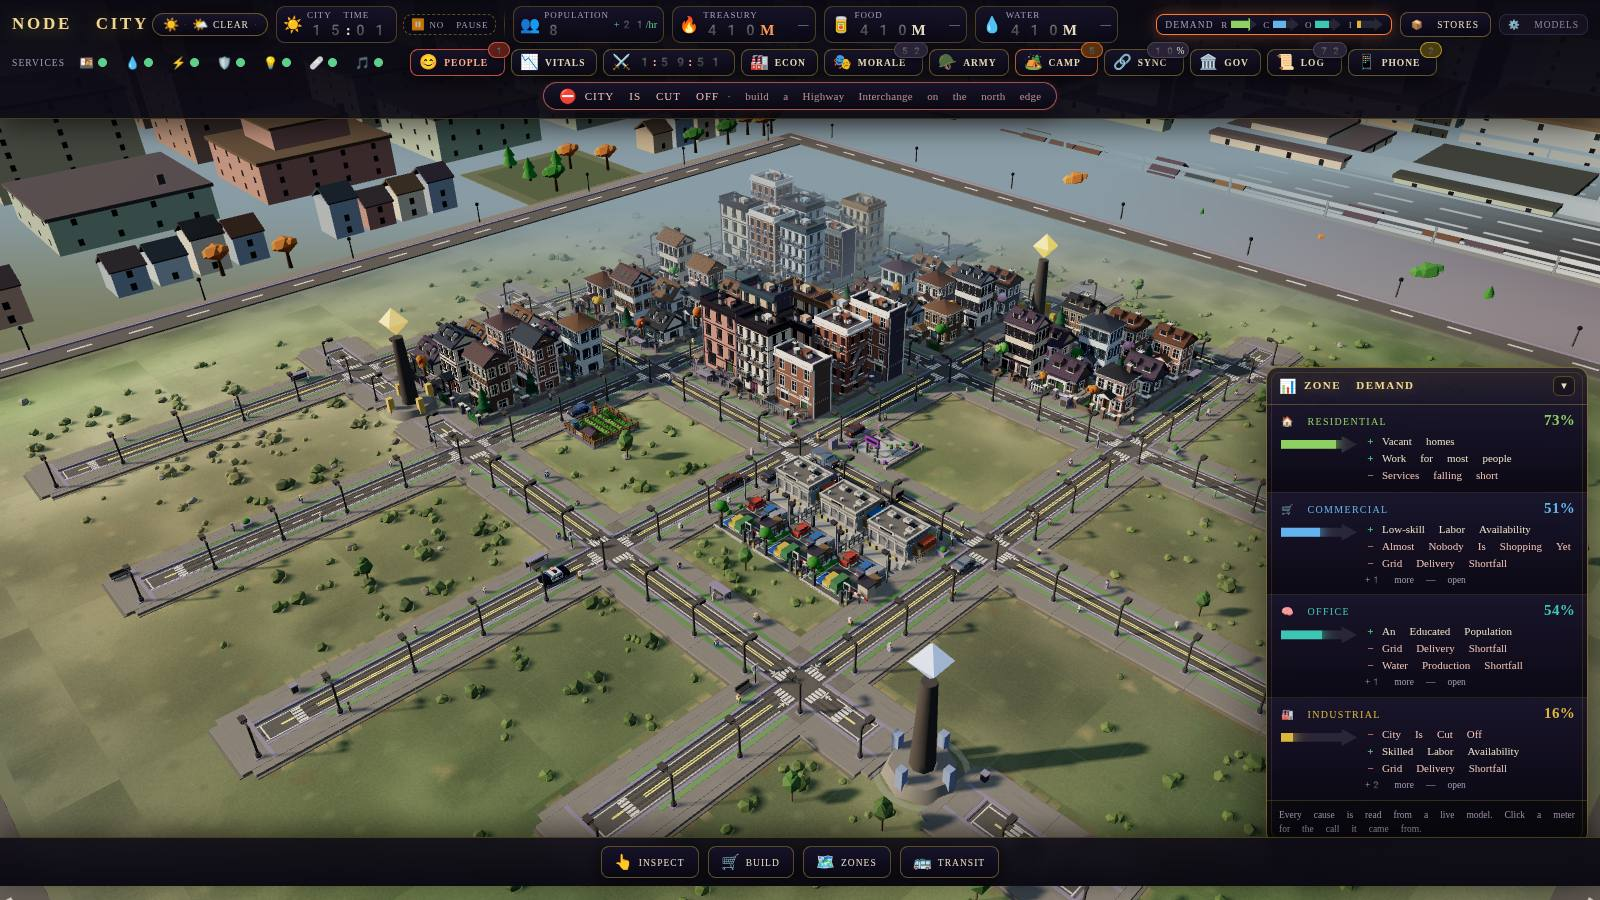
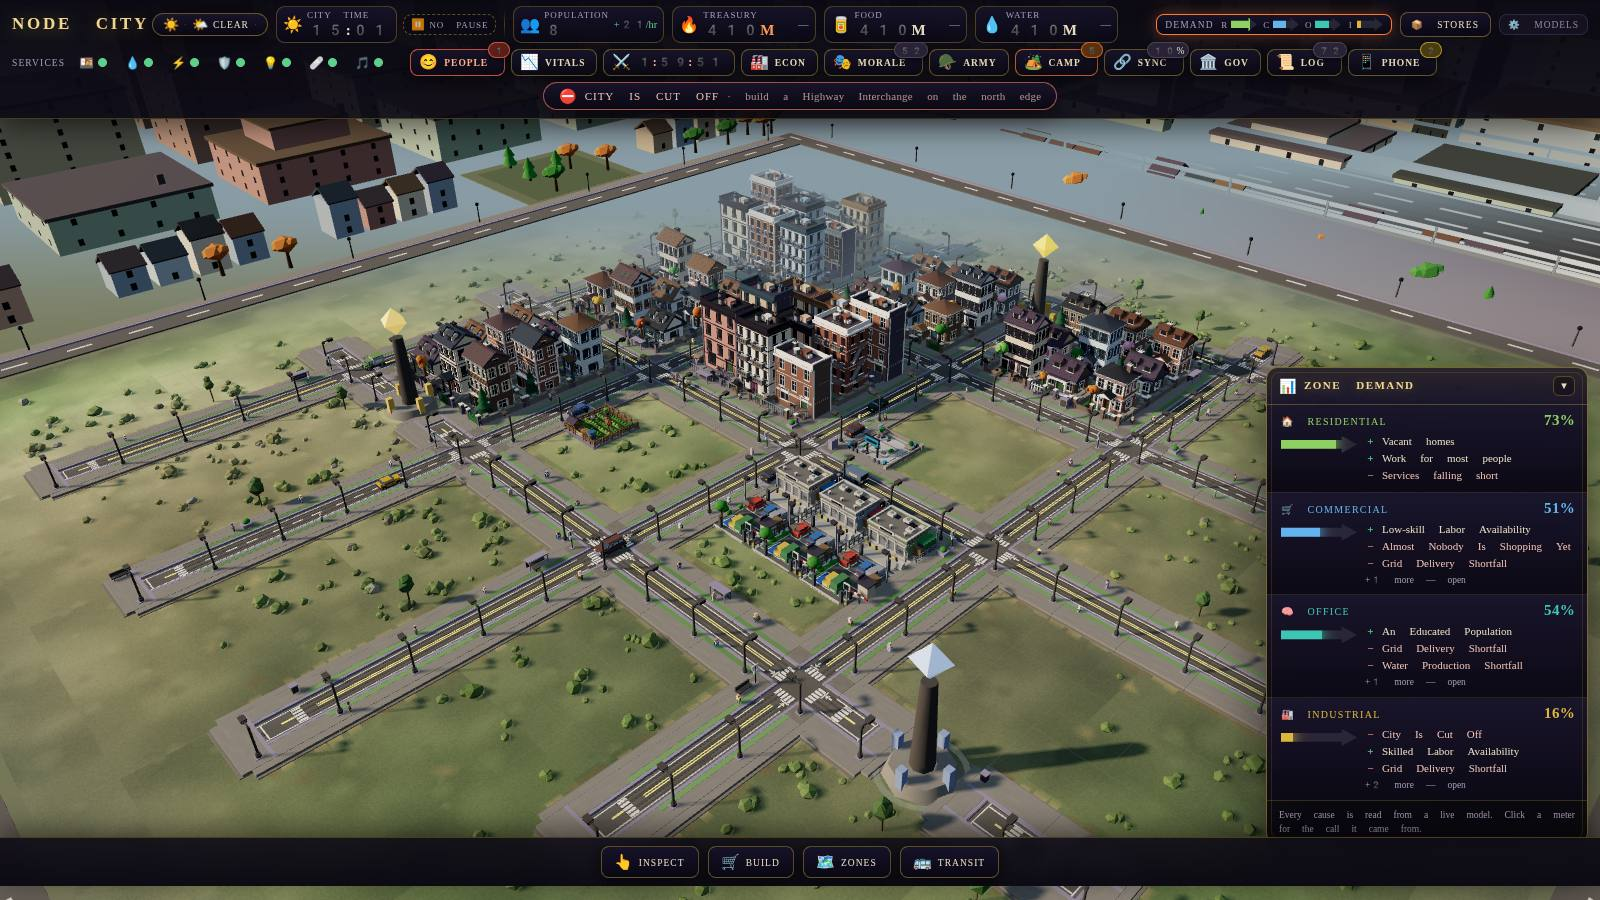
Checkpoint: districts gate fix mid-write
⚠ MIXED CHECKPOINT, IN FLIGHT. An agent is still writing
public/src/districts/{index,ui}.js — the fix for the save path that bypasses the
research gate (a locked specialisation arriving in a save changes what develops,
and grants 40 of the tree's 74 development points through progression's adoption
sweep). Nothing here is finished or reviewed.

Also carries a re-rendered aerial frame from the ground-plane capture.

Both gates pass (ALL CLEAN, ALL 169 MODULES PARSE), which means nothing fails to
parse and nothing more.

diff --git a/public/src/districts/ui.js b/public/src/districts/ui.js
@@ -27,6 +27,19 @@
       single line under the chips: what it builds, the lowest band that will
       take it, and how many tiles already carry it. Everything on that line is
       derived live (index.js `available()`); nothing is written twice.
+   5. 🔬 A CHIP THAT CHANGES NOTHING ON *THIS* ZONE SAYS SO ON ITS FACE. Rows
+      arrive carrying `inert` and `differs`, computed in index.js from the live
+      zone table and the live band ladder, and a placebo pairing is drawn dashed
+      with "· no change here" on the chip itself — not only in the tooltip,
+      because a qualification you have to hover to find is not a qualification.
+      ⚠ IT IS STILL ARMABLE, AND THAT IS THE DECISION RATHER THAN AN OVERSIGHT.
+        Hiding it was the alternative and it loses twice: the chip would appear
+        and vanish as the player switched density within one family (🔬
+        Technology is a placebo on 🧠 Office park and a real district on 📈
+        Office towers), which reads as a bug; and a player who paints a block
+        low-density now and upgrades the zone later would silently lose the
+        district they painted. Marked and paintable keeps both the information
+        and the plan.
 
    ⚠ AND THE THING THAT IS DELIBERATELY *NOT* DRAWN: the chips do not carry
      per-specialisation colours. The overlay's hues are the LAND USE families
@@ -69,6 +82,11 @@ function style() {
 #nz-spec .ndc.myth.on{border-color:#ffd98a;background:rgba(212,175,55,.22)}
 #nz-spec .ndc.lock{opacity:.55}
 #nz-spec .ndc.dead{opacity:.4;cursor:not-allowed;text-decoration:line-through}
+/* 🔬 A chip that changes nothing on the zone currently on the brush. Dashed
+   rather than dimmed, and NOT struck through: it is a real district on another
+   zone of the same family, so it must not read as broken. */
+#nz-spec .ndc.inert{border-style:dashed;border-color:rgba(255,255,255,.18)}
+#nz-spec .ndc.inert .ndno{opacity:.6;font-style:italic}
 #nz-spec .nddiv{width:1px;align-self:stretch;background:rgba(212,175,55,.35);margin:0 2px}
 #nz-spec .nddet{margin-top:4px;color:var(--mist,#8f87a3);font-size:11px;line-height:1.35}
 #nz-spec .nddet b{color:var(--bone,#e9e0cc)}
@@ -86,7 +104,10 @@ export function renderInto(el, zoneId, zoneDef) {
   const fam = cat && API.FAMILIES[cat];
   if (!fam) { el.innerHTML = ''; return false; }        // residential, or nothing selected
 
-  const rows = API.available(cat);
+  /* zoneId, not just the family: 🔬 Technology is a placebo on 🧠 Office park
+     and a real district on 📈 Office towers, so "does this chip change
+     anything" can only be answered for the zone actually on the brush. */
+  const rows = API.available(cat, zoneId);
   const armed = API.armedFor(cat);
   const plain = rows.filter((r) => !r.mythic);
   const myth = rows.filter((r) => r.mythic);
@@ -97,15 +118,22 @@ export function renderInto(el, zoneId, zoneDef) {
     if (r.id === armed) cls.push('on');
     if (r.empty) cls.push('dead');
     else if (r.locked) cls.push('lock');
+    if (r.inert) cls.push('inert');
     /* The tooltip is where the long form lives, so the chip itself can stay two
        words. It names the buildings and the floor because "why can I not use
        this" and "why is nothing developing" are the same question. */
     const tip = r.name + ' — ' + r.desc
       + '\nBuilds: ' + (r.tenants.length ? r.tenants.join(', ') : 'nothing in this build of the city')
       + (r.floor ? '\nLowest land value that takes it: ' + r.floor.ico + ' ' + r.floor.name : '')
+      + (r.inert ? '\n≡ On this zone it changes nothing — the zone already builds these, at this height, on every grade of land.'
+          + (r.realOn && r.realOn.length ? ' It is a real district on: ' + r.realOn.map((z) => z.name).join(', ') + '.' : '') : '')
       + (r.locked && r.node ? '\n🔒 ' + r.node.name + ' opens it (' + (r.node.cost | 0) + ' ⬡, Progression — K)' : '');
     return '<button class="' + cls.join(' ') + '" type="button" data-spec="' + esc(r.id) + '" title="' + esc(tip) + '">'
       + esc((r.locked ? '🔒 ' : '') + r.ico + ' ' + r.short)
+      /* ⚠ SAID ON THE CHIP, NOT ONLY IN THE TOOLTIP. The whole defect was that
+         a placebo sat unqualified beside two chips that do change something,
+         and a qualification you have to hover to find is not a qualification. */
+      + (r.inert ? '<span class="ndno">· no change here</span>' : '')
       + (r.tiles ? '<span style="opacity:.6">· ' + r.tiles + '</span>' : '')
       + '</button>';
   };
@@ -146,7 +174,25 @@ function detail(rows, armed) {
       + (r.reach.length > 1 ? ' <span style="opacity:.7">(' + esc(r.reach.map((b) => b.name).join(' · ')) + ')</span>' : '')
       + '. Cheaper plots stay vacant and say so.';
   }
+  /* 🔬 THE PLACEBO SENTENCE, AND THE PARTIAL ONE UNDER IT. Both come straight
+     off `differsOn()` in index.js — this file computes nothing, so what the row
+     says and what the develop pass will do cannot drift apart. */
+  if (r.inert) {
+    s += '<br><span class="ndwarn">On this zone it changes nothing.</span> The zone already develops these buildings, '
+      + 'at this height, on every grade of land — painting it here is the same street either way.'
+      + (r.realOn && r.realOn.length
+          ? ' It is a real district on <b>' + esc(r.realOn.map((z) => z.ico + ' ' + z.name).join('</b>, <b>')) + '</b>.'
+          : '');
+  } else if (r.differs && r.bandsTotal && r.differs.length < r.bandsTotal) {
+    s += '<br>Changes what develops only on <span class="ndfl">'
+      + esc(r.differs.map((b) => b.ico + ' ' + b.name).join(' · ')) + '</span> land'
+      + ' — on the other grades this block builds what the plain zone would.';
+  }
   if (r.tiles) s += '<br><b>' + r.tiles + '</b> tile' + (r.tiles === 1 ? '' : 's') + ' already carry this district.';
+  /* 🔒 Held tiles are named rather than hidden: they are still the player's, and
+     the number is the only place the panel can say so. */
+  if (r.heldTiles) s += ' <span class="ndwarn">' + r.heldTiles + ' of them '
+    + (r.heldTiles === 1 ? 'is' : 'are') + ' held until the node is researched — the land develops as its plain zone until then.</span>';
   return s + '</div>';
 }
 

diff --git a/public/src/districts/store.js b/public/src/districts/store.js
@@ -22,6 +22,26 @@
      that knows more specialisations must not be quietly emptied by an older
      one — the same rule /src/zoning states for unknown zone ids. It is simply
      not drawn and not used until a build that knows it opens the city.
+
+   ⚠ A *LOCKED* ID IS ALSO KEPT — AND IT IS NOT THE SAME CASE, SO HERE IS THE
+     SECOND ARGUMENT RATHER THAN THE FIRST ONE STRETCHED.
+     🔴 THIS MAP IS THE ONE DOOR IN THE RESEARCH GATE THAT DOES NOT ASK. `arm()`,
+        `onZone()` and `_set()` all refuse a specialisation the tree has not
+        opened; `load()` below writes whatever the save says, because a loader
+        that consults live game state is a loader that behaves differently
+        depending on module boot order. That is deliberate and it is safe ONLY
+        because index.js asks `unlocked()` again at every READ — mixFor,
+        levelFor, markAt, refusal and the `per` census. Change one of those and
+        this file becomes a hole: three strings in a save file were once worth
+        15 progression nodes and 40 ⬡ of a 74 ⬡ tree.
+     WHY KEPT RATHER THAN DROPPED. An unknown id is a BUILD-VERSION mismatch; a
+     locked id is a WITHIN-BUILD state that the player can legitimately reach —
+     a node re-costed or renamed under a district they painted honestly.
+     /src/progression's header is absolute that nothing may remove what a live
+     city already has, so the tile keeps its district, does nothing with it, and
+     gets it back the moment the node opens. `reconcile()` below therefore drops
+     on FAMILY only and never on research; the honest player loses nothing and
+     the hand-edited save buys nothing.
    ════════════════════════════════════════════════════════════════════════════ */
 
 export function makeStore() {
@@ -45,6 +65,10 @@ export function makeStore() {
     for (const k in M) if (!pred || pred(M[k], k)) n++;
     return n;
   }
+  /* ⚠ THE RAW CENSUS, AND IT IS *NOT* THE ONE ANY CONSUMER SHOULD READ. It
+     counts held and unknown ids alongside live ones. `MythicDistricts.stats()`
+     builds the filtered `per` that /src/progression reads as evidence — see the
+     locked-id note in the header before wiring anything to this. */
   function per() {
     const out = {};
     for (const k in M) out[M[k]] = (out[M[k]] || 0) + 1;

diff --git a/public/src/districts/index.js b/public/src/districts/index.js
@@ -476,6 +476,9 @@ function available(cat, zoneId) {
          sentence — the zones in this family where it IS a district. */
       differs: diff ? diff.slice() : null,
       inert: diff ? diff.length === 0 : false,
+      /* How many rungs there are to differ ON, so the panel can say "only on
+         Established land" rather than making the player count. */
+      bandsTotal: (() => { const r = knownLadder(); return r ? r.length : null; })(),
       realOn: (diff && !diff.length) ? realZonesFor(s.id) : null,
       /* Tiles carrying this spec that the tree is HOLDING (see the header).
          Printed rather than hidden: a player whose save arrived with a locked
